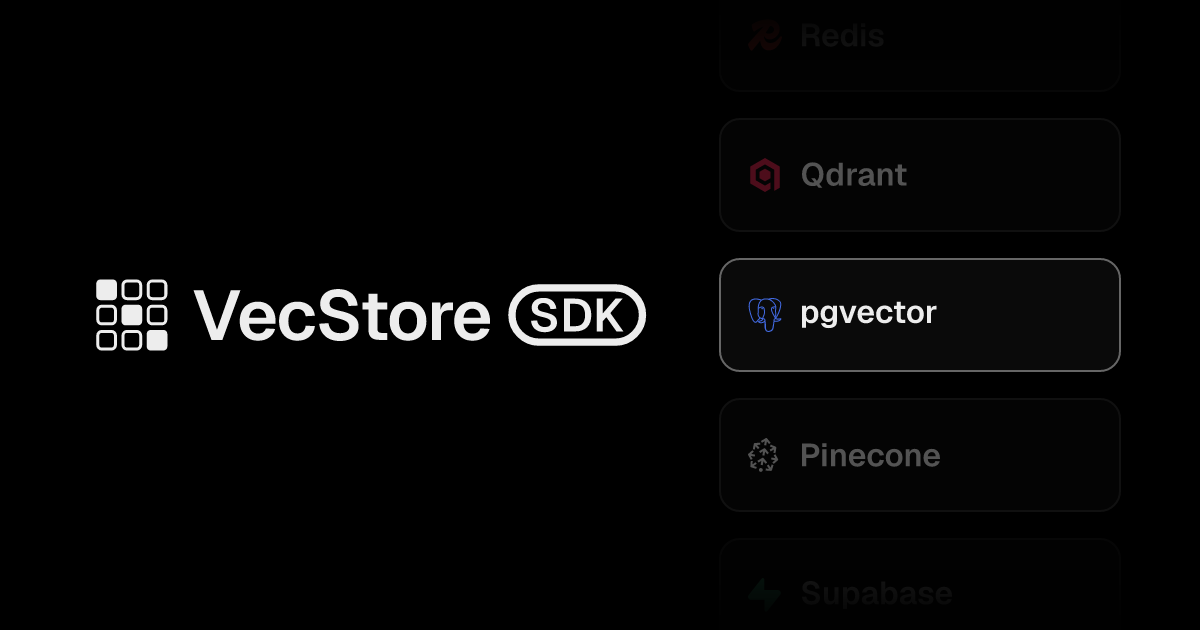
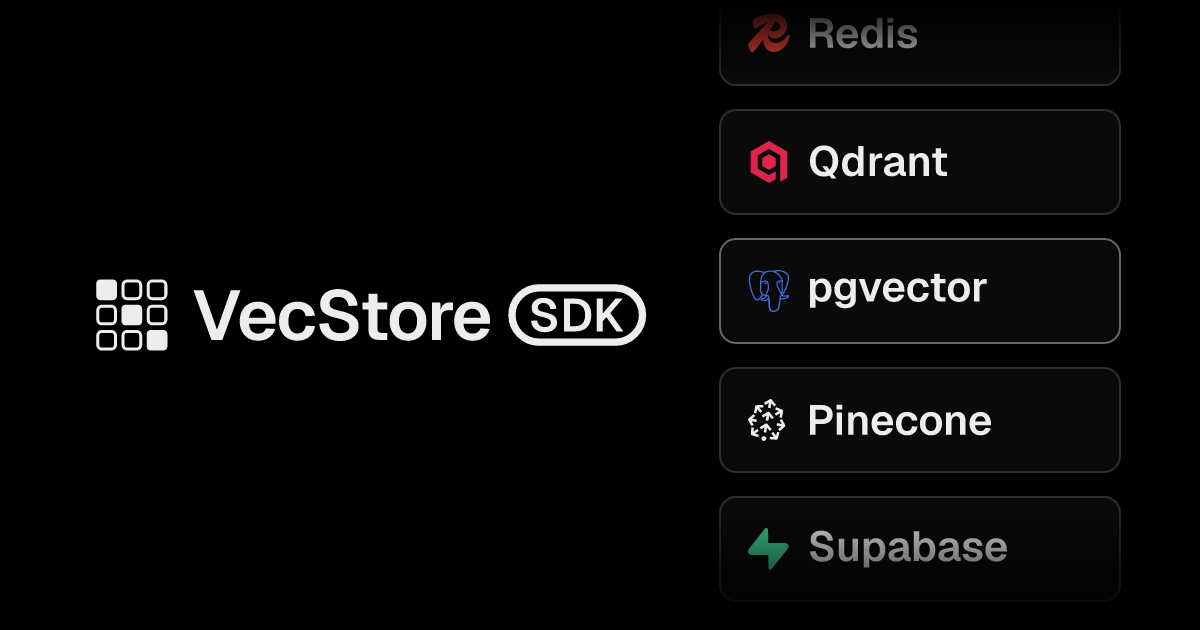
chore(assets): match the chat sdk fade on the social cards (#18)
* chore(assets): render one social card for the site and the docs default

app/opengraph-image.png drew its own column of six providers while the
docs backgrounds drew a window of five, so the card the site shares had
a different rhythm from every card a docs page shares. Six cards in the
same canvas leave 21px of the first and last row on screen, which the
fade then takes down to a stray rounded edge at each end.

The site card is the docs default with no provider active, so render it
once and write it to both paths. That also drops the filter that held
Supabase out of the site column to keep it at six.

* chore(assets): take the social card fade from the chat sdk card

The column was centred in the canvas, so both end cards were cut by an
edge, and the mask reached full opacity a whole card late. The first row
ended up as a bright rounded line at the top of the frame with its logo
and label already faded out, which reads as an artefact rather than as a
list that carries on past the crop.

The Chat SDK card does it the other way round. Measured off a 2400x1256
capture and scaled to this canvas: a 104px card with a 25px gap, the
stack lifted 24px above centre so only the first row is cut and the last
one ends 29px inside the frame, and a mask that is opaque from the first
card's bottom edge to the last card's top edge, reaching zero one pitch
below that. Neither end shows a cut, because the fade is already at zero
where the crop happens.
[…]

diff --git a/scripts/render-web-icons.ts b/scripts/render-web-icons.ts
@@ -13,19 +13,19 @@ const INK = "#ededed";
 const CARD_FILL = "#0a0a0a";
 const CARD_STROKE = "#2e2e2e";
 const CARD_STROKE_ACTIVE = "#666666";
-const CARD_DIM_NEAR = 0.35;
-const CARD_DIM_FAR = 0.18;
 const CARD_STROKE_WIDTH = 2;
 const CARD_WIDTH = 400;
-const CARD_HEIGHT = 112;
-const CARD_GAP = 28;
-const CARD_RADIUS = 20;
-const CARD_ICON = 34;
+const CARD_HEIGHT = 104;
+const CARD_GAP = 25;
+const CARD_PITCH = CARD_HEIGHT + CARD_GAP;
+const CARD_RADIUS = 16;
+const CARD_ICON = 42;
 const CARD_ICON_INSET = 28;
 const CARD_ICON_Y = (CARD_HEIGHT - CARD_ICON) / 2;
 const CARD_LABEL_GAP = 20;
-const CARD_LABEL_SIZE = 32;
+const CARD_LABEL_SIZE = 42;
 const CARD_LABEL_X = CARD_ICON_INSET + CARD_ICON + CARD_LABEL_GAP;
+const COLUMN_LIFT = 24;
 const OG_LOGO_WIDTH = 580;
 const MARK_SIZE = 103.68;
 const OG_WIDTH = 1200;
@@ -143,8 +143,6 @@ const providers: readonly ProviderRow[] = [
   { file: "redis.svg", id: "redis", label: "Redis", tint: REDIS_RED },
 ];
 
-const rows = providers.filter((row) => row.id !== "supabase");
-
 const providerIcon = (file: string, size: number, tint: string): string => {
   const svg = readFileSync(path.join(assets, "providers", file), "utf-8");
   const viewBox =
@@ -165,31 +163,15 @@ const providerBody = (row: ProviderRow, labelFont: Font): string => {
   return `<g transform="translate(${CARD_ICON_INSET} ${format(CARD_ICON_Y)})">${providerIcon(row.file, CARD_ICON, row.tint)}</g><g transform="translate(${format(CARD_LABEL_X - box.x1)} ${format(textY)})"><path d="${cubicPathData(label, PATH_PRECISION)}" fill="${INK}"/></g>`;
 };
 
-interface CardStyle {
-  readonly active: boolean;
-  readonly opacity: number;
-}
-
 const card = (
   row: ProviderRow,
   y: number,
   labelFont: Font,
-  style: CardStyle
+  active: boolean
 ): string => {
   const body = providerBody(row, labelFont);
-  const stroke = style.active ? CARD_STROKE_ACTIVE : CARD_STROKE;
-  return `<g transform="translate(0 ${format(y)})" opacity="${format(style.opacity)}"><rect width="${CARD_WIDTH}" height="${CARD_HEIGHT}" rx="${CARD_RADIUS}" fill="${CARD_FILL}" stroke="${stroke}" stroke-width="${CARD_STROKE_WIDTH}"/>${body}</g>`;
-};
-
-const cardStyle = (distance: number): CardStyle => {
-  if (distance === 0) {
-    return { active: true, opacity: 1 };
-  }
-
-  return {
-    active: false,
-    opacity: distance === 1 ? CARD_DIM_NEAR : CARD_DIM_FAR,
-  };
+  const stroke = active ? CARD_STROKE_ACTIVE : CARD_STROKE;
+  return `<g transform="translate(0 ${format(y)})"><rect width="${CARD_WIDTH}" height="${CARD_HEIGHT}" rx="${CARD_RADIUS}" fill="${CARD_FILL}" stroke="${stroke}" stroke-width="${CARD_STROKE_WIDTH}"/>${body}</g>`;
 };
 
 interface Column {
@@ -203,25 +185,17 @@ const column = (
   activeId?: string
 ): Column => {
   const height = items.length * CARD_HEIGHT + (items.length - 1) * CARD_GAP;
-  const top = (OG_HEIGHT - height) / 2;
-  const activeIndex = items.findIndex((row) => row.id === activeId);
+  const top = (OG_HEIGHT - height) / 2 - COLUMN_LIFT;
+  const lastTop = top + (items.length - 1) * CARD_PITCH;
   const cards = items
     .map((row, index) =>
-      card(
-        row,
-        top + index * (CARD_HEIGHT + CARD_GAP),
-        labelFont,
-        activeIndex === -1
-          ? { active: false, opacity: 1 }
-          : cardStyle(Math.abs(index - activeIndex))
-      )
+      card(row, top + index * CARD_PITCH, labelFont, row.id === activeId)
     )
     .join("");
-  const fadeStart = (top + (CARD_HEIGHT + CARD_GAP)) / OG_HEIGHT;
-  const fadeEnd =
-    (top + (items.length - 2) * (CARD_HEIGHT + CARD_GAP) + CARD_HEIGHT) /
-    OG_HEIGHT;
-  const fade = `<linearGradient id="column-fade" x1="0" y1="0" x2="0" y2="1"><stop offset="0" stop-color="#000000"/><stop offset="${format(fadeStart)}" stop-color="#ffffff"/><stop offset="${format(fadeEnd)}" stop-color="#ffffff"/><stop offset="1" stop-color="#000000"/></linearGradient><mask id="column-mask"><rect width="${OG_WIDTH}" height="${OG_HEIGHT}" fill="url(#column-fade)"/></mask>`;
+  const solidFrom = (top + CARD_HEIGHT) / OG_HEIGHT;
+  const solidTo = lastTop / OG_HEIGHT;
+  const clearTo = (lastTop + CARD_PITCH) / OG_HEIGHT;
+  const fade = `<linearGradient id="column-fade" x1="0" y1="0" x2="0" y2="1"><stop offset="0" stop-color="#000000"/><stop offset="${format(solidFrom)}" stop-color="#ffffff"/><stop offset="${format(solidTo)}" stop-color="#ffffff"/><stop offset="${format(clearTo)}" stop-color="#000000"/></linearGradient><mask id="column-mask"><rect width="${OG_WIDTH}" height="${OG_HEIGHT}" fill="url(#column-fade)"/></mask>`;
   return { cards, mask: fade };
 };
 
@@ -245,14 +219,6 @@ const logoTop = (OG_HEIGHT - OG_LOGO_WIDTH * logoRatio) / 2;
 
 const labelFont = loadFont(path.join(assets, "fonts", "Geist-SemiBold.ttf"));
 
-const openGraph = (): string => {
-  const { cards, mask } = column(rows, labelFont);
-  return frame(
-    mask,
-    `${logoImage(OG_LOGO_WIDTH, logoTop)}<g mask="url(#column-mask)"><g transform="translate(${format(columnX)} 0)">${cards}</g></g>`
-  );
-};
-
 const rotate = (by: number): readonly ProviderRow[] => [
   ...providers.slice(by),
   ...providers.slice(0, by),
@@ -267,7 +233,7 @@ const windowFor = (activeId?: string): readonly ProviderRow[] => {
   return rotate(offset).slice(0, COLUMN_WINDOW);
 };
 
-const docsBackground = (activeId?: string): string => {
+const socialCard = (activeId?: string): string => {
   const { cards, mask } = column(windowFor(activeId), labelFont, activeId);
   return frame(
     mask,
@@ -293,23 +259,18 @@ const run = (): void => {
       }))
     )
   );
-  writeFileSync(
-    path.join(output, "opengraph-image.png"),
-    renderPng(openGraph(), OG_WIDTH)
-  );
+  const defaultCard = renderPng(socialCard(), OG_WIDTH);
+  writeFileSync(path.join(output, "opengraph-image.png"), defaultCard);
   writeFileSync(
     path.join(output, "opengraph-image.alt.txt"),
     `VecStore SDK. ${TAGLINE}\n`
   );
   mkdirSync(ogOutput, { recursive: true });
-  writeFileSync(
-    path.join(ogOutput, "background.png"),
-    renderPng(docsBackground(), OG_WIDTH)
-  );
+  writeFileSync(path.join(ogOutput, "background.png"), defaultCard);
   for (const row of providers) {
     writeFileSync(
       path.join(ogOutput, `background-${row.id}.png`),
-      renderPng(docsBackground(row.id), OG_WIDTH)
+      renderPng(socialCard(row.id), OG_WIDTH)
     );
   }
   process.stdout.write("icons rendered\n");
